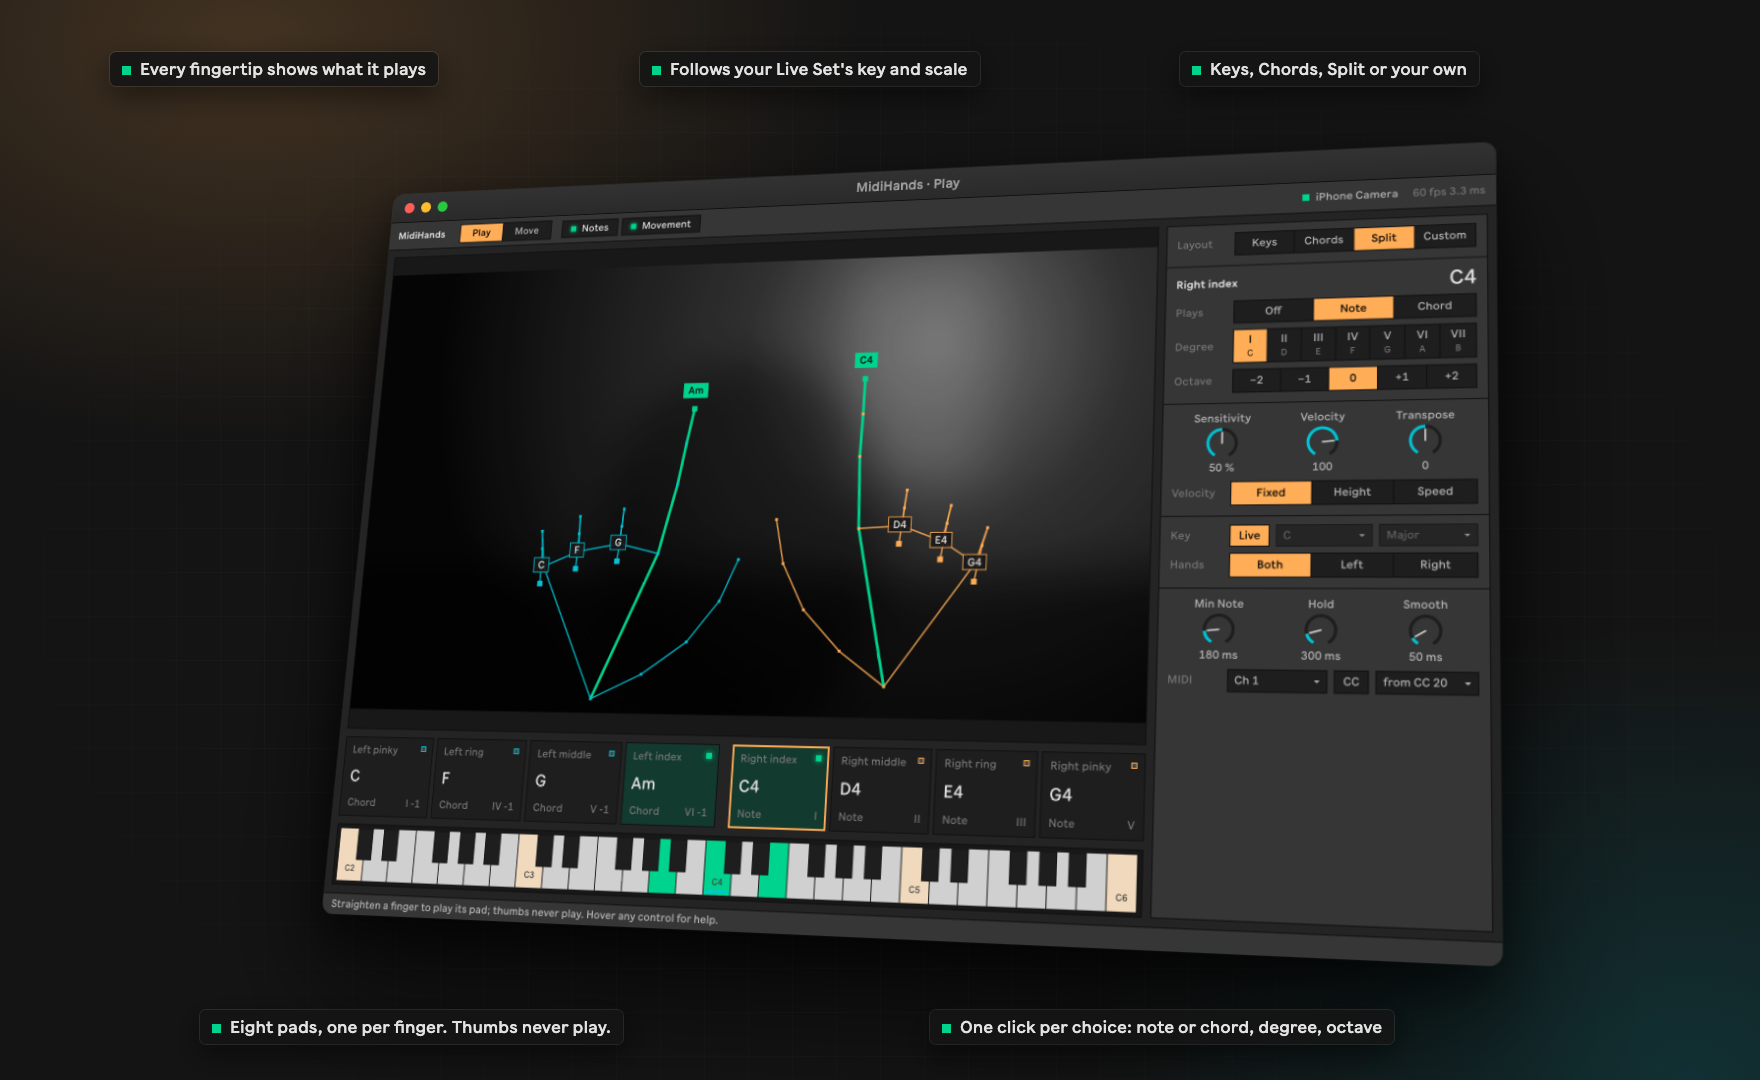
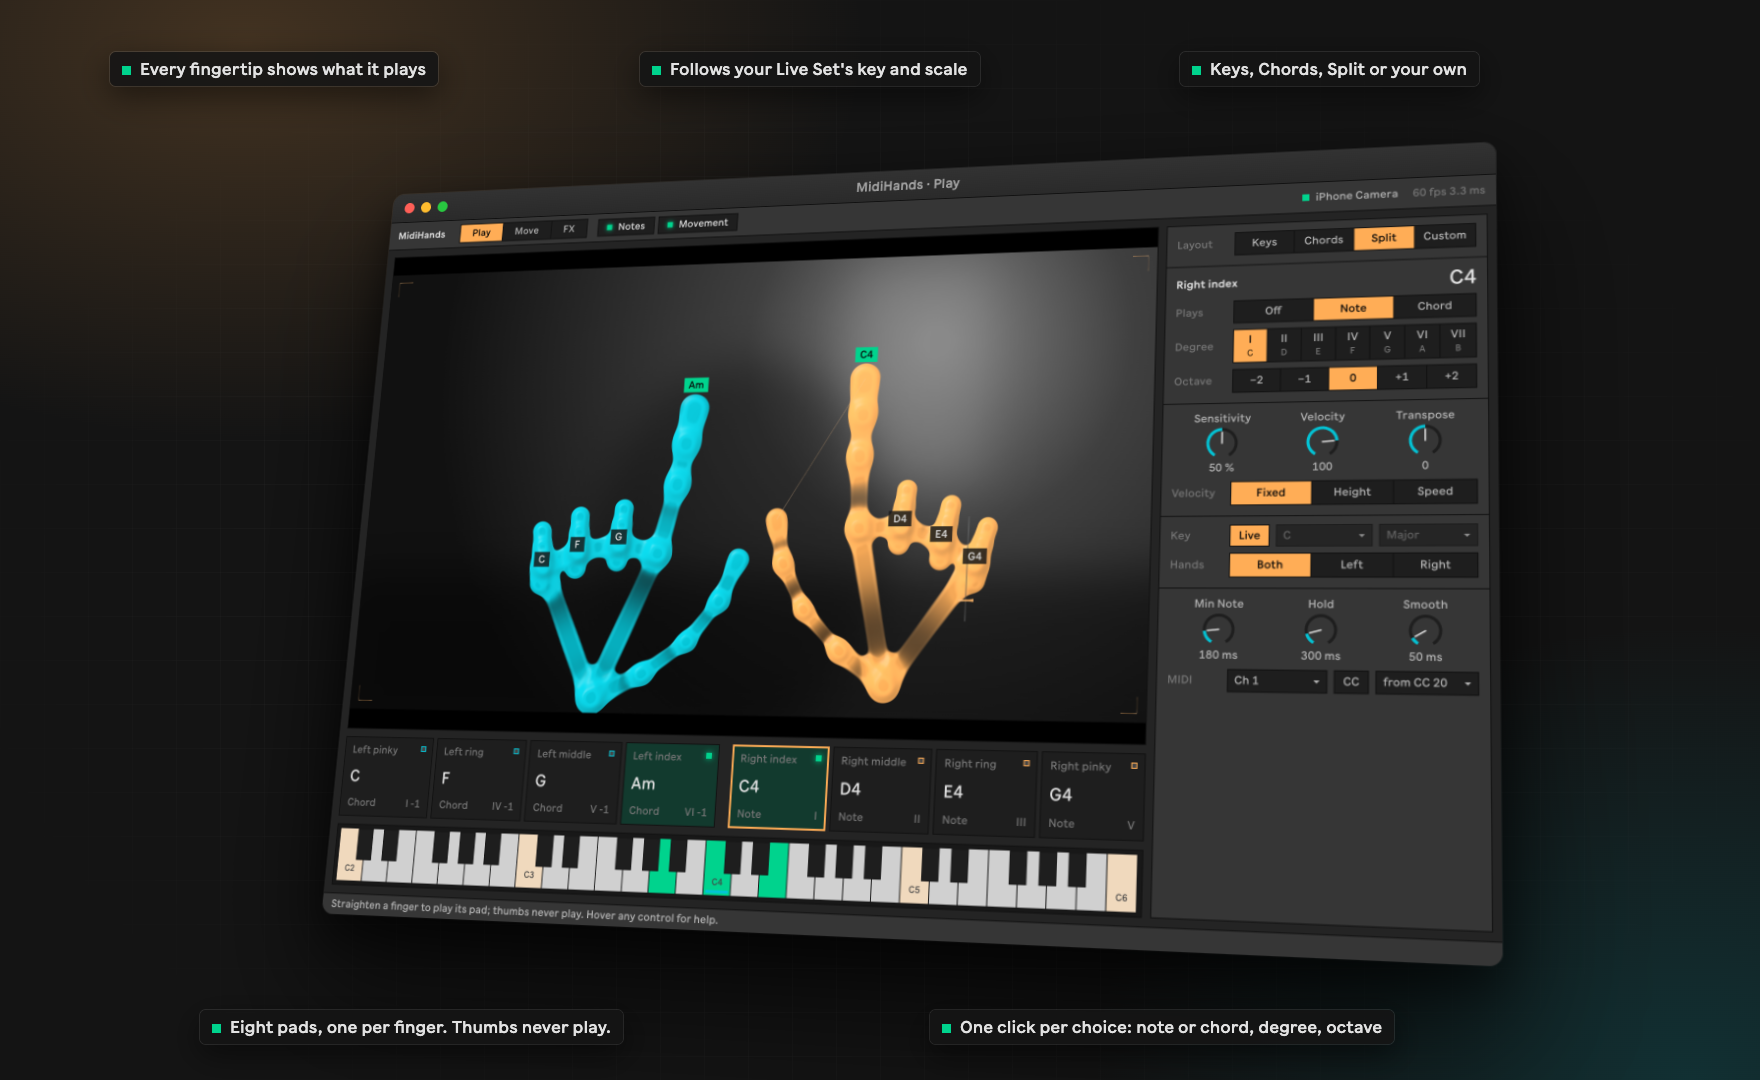
docs: FX and video window in README; recorder hardening
- README: FX page, video window and recording sections, intro and
  highlights, privacy (recordings stay in Movies/MidiHands), recording
  troubleshooting. New renderings effects.png and video.png come from
  the real renderer (synthetic picture, no camera).
- render.sh: copies mh-gl.js/mh-fx.js next to the temporary editor
  copy (the pictures fell back to 2D without them) and renders with
  the GPU on.
- Recorder: a device deleted while recording finishes the file; a
  second Rec while starting is refused.
- Video window: the toolbar stays out of recordings (shows only under
  the pointer while recording).
- CHANGELOG [Unreleased] and AGENTS.md (effects are stored by index:
  append only).

Claude-Session: https://claude.ai/code/session_01Lv8F25mHrKPNLjGZjr72Lo

Changed region(s): [[0.2812, 0.3056, 0.5625, 0.6722], [0.3125, 0.1833, 0.4062, 0.2139]]

diff --git a/docs/render/effects.html b/docs/render/effects.html
@@ -1,0 +1,69 @@
+<!doctype html><html><head><meta charset="utf-8"><link rel="stylesheet" href="common.css">
+<style>
+  .grid { position: absolute; left: 50%; top: 52%; width: 1560px; display: grid; grid-template-columns: repeat(4, 1fr); gap: 22px;
+    transform: translate(-50%, -50%) perspective(2600px) rotateX(18deg) rotateZ(-4deg); }
+  figure { margin: 0; border-radius: 10px; overflow: hidden; box-shadow: 0 30px 70px rgba(0,0,0,.6), 0 0 0 1px rgba(255,255,255,.08); background: #000; }
+  figure canvas { display: block; width: 100%; }
+  figcaption { padding: 9px 12px; background: #242424; font-size: 17px; color: #e2e2e2; }
+  figcaption span { color: #8a8a8a; margin-left: 8px; }
+  #gl { position: absolute; left: -10000px; width: 640px; height: 360px; }
+</style></head>
+<body>
+<div class="mark"><b>22 effects</b><span>moved by your <em>hands</em></span></div>
+<div class="grid" id="grid"></div>
+<canvas id="gl"></canvas>
+<script src="RAW_JS/mh-gl.js"></script>
+<script src="RAW_JS/mh-fx.js"></script>
+<script>
+// A few effects over a synthetic scene with jelly hands, rendered by the real renderer.
+const PICK = [["edges", {}], ["kaleido", { 0: 0.4, 3: 0.6, 4: 0 }], ["halftone", {}], ["thermal", {}], ["tunnel", {}], ["ascii", { 2: 1 }], ["glitch", { 0: 0.6 }], ["reaction", {}]];
+const OPEN = [[0, 0], [-.07, -.04], [-.13, -.09], [-.17, -.15], [-.19, -.21], [-.07, -.21], [-.085, -.31], [-.09, -.37], [-.095, -.42],
+  [-.01, -.22], [-.01, -.33], [-.01, -.40], [-.01, -.45], [.05, -.205], [.06, -.30], [.065, -.36], [.07, -.41], [.10, -.18], [.12, -.25], [.13, -.29], [.14, -.33]];
+function hand(wx, wy, size, mirror, open, tilt) {
+  const pts = OPEN.map((p) => p.slice());
+  for (let f = 1; f <= 4; f++) if (!open[f]) {
+    const [mx, my] = OPEN[4 * f + 1], dx = OPEN[4 * f + 2][0] - mx;
+    pts[4 * f + 2] = [mx + dx * .5, my - .05]; pts[4 * f + 3] = [mx + dx * .3, my - .025]; pts[4 * f + 4] = [mx + dx * .1, my + .025];
+  }
+  const c = Math.cos(tilt), s = Math.sin(tilt);
+  return pts.map(([x, y]) => [wx + (x * c - y * s) * size * mirror / (16 / 9), wy + (x * s + y * c) * size]);
+}
+function scene() {
+  const c = document.createElement("canvas"); c.width = 1280; c.height = 720;
+  const g = c.getContext("2d"), sky = g.createLinearGradient(0, 0, 0, 720);
+  sky.addColorStop(0, "#1d1b4f"); sky.addColorStop(.55, "#b8457a"); sky.addColorStop(1, "#f4a259");
+  g.fillStyle = sky; g.fillRect(0, 0, 1280, 720);
+  for (let i = 0; i < 40; i++) {
+    const x = (i * 337) % 1280, y = (i * 211) % 420, r = 10 + (i * 17) % 50, b = g.createRadialGradient(x, y, 0, x, y, r);
+    b.addColorStop(0, `hsla(${(i * 47) % 360},90%,75%,.55)`); b.addColorStop(1, "hsla(0,0%,100%,0)");
+    g.fillStyle = b; g.beginPath(); g.arc(x, y, r, 0, 7); g.fill();
+  }
+  g.fillStyle = "#14102a"; g.beginPath(); g.moveTo(0, 560);
+  for (let x = 0; x <= 1280; x += 40) g.lineTo(x, 520 - Math.sin(x * .01) * 40 - (x % 160 === 0 ? 70 : 0));
+  g.lineTo(1280, 720); g.lineTo(0, 720); g.fill();
+  const img = new Image(); img.src = c.toDataURL(); return img;
+}
+const img = scene();
+img.onload = () => {
+  const canvas = document.getElementById("gl"), r = MHGL.create(canvas);
+  r.setSource(img); r.options.brackets = false;
+  for (const [id, over] of PICK) {
+    const fx = MHFX.byId[id], p = fx.knobs.map((k) => k.def).concat([0, 0, 0, 0, 0, 0]).slice(0, 6);
+    for (const [k, v] of Object.entries(over)) p[+k] = v;
+    r.setFx([{ id, mix: 1, p }]);
+    const n = ["Feedback", "Simulation"].includes(fx.group) ? 90 : 3;
+    for (let i = 0; i < n; i++) {
+      const t = 2 + i / 15, lo = [false, true, true, false, false], ro = [false, true, Math.sin(t * 1.3) > 0, false, true];
+      r.setHands([{ pts: hand(.31 + Math.sin(t * .5) * .03, .97, 1.55, -1, lo, -.1), on: lo }, { pts: hand(.69, .95 + Math.cos(t * .7) * .03, 1.55, 1, ro, .08) , on: ro }]);
+      r.setExpr([.5, .3, .2, .1, .5, .5, .7, .5, .2, .55]);
+      r.render(t);
+    }
+    const fig = document.createElement("figure"), c = document.createElement("canvas");
+    c.width = 640; c.height = 360; c.getContext("2d").drawImage(canvas, 0, 0, 640, 360);
+    fig.appendChild(c);
+    fig.insertAdjacentHTML("beforeend", `<figcaption>${fx.name}<span>${fx.group}</span></figcaption>`);
+    document.getElementById("grid").appendChild(fig);
+  }
+};
+</script>
+</body></html>

diff --git a/package/javascript/mh-video.html b/package/javascript/mh-video.html
@@ -21,6 +21,9 @@ canvas { position: absolute; inset: 0; width: 100%; height: 100%; }
 #bar { position: absolute; top: 10px; right: 10px; display: flex; gap: 6px; align-items: center; padding: 6px; background: rgba(36, 36, 36, .92);
   border: 1px solid var(--frame); transition: opacity .25s; }
 body.idle #bar { opacity: 0; }
+/* While recording the bar stays out of the picture: it shows only while the pointer is near it. */
+body.recording #bar { opacity: 0; }
+body.recording #bar:hover { opacity: 1; }
 .seg { display: flex; border: 1px solid var(--frame); background: var(--control); }
 .seg button, .tog { border: 0; border-right: 1px solid var(--frame); background: transparent; color: var(--fg); padding: 4px 9px; font: inherit; }
 .seg button:last-child { border-right: 0; }
@@ -123,10 +126,9 @@ addEventListener("keydown", (e) => {
   if (e.key === "r" && !e.metaKey) toggleRecording();
   if (e.key === "f" && !e.metaKey) send("reveal");
 });
-// The bar hides itself while the mouse rests (and never shows in recordings: it sits outside
-// the picture only when there is room, so it fades out).
+// The bar hides itself while the mouse rests; while recording it shows only under the pointer.
 let idleTimer = 0;
-const wake = () => { document.body.classList.remove("idle"); clearTimeout(idleTimer); idleTimer = setTimeout(() => document.body.classList.add("idle"), 1800); };
+const wake = () => { document.body.classList.remove("idle"); clearTimeout(idleTimer); idleTimer = setTimeout(() => document.body.classList.add("idle"), S.recording ? 300 : 1800); };
 addEventListener("mousemove", wake); wake();
 addEventListener("resize", () => { if (S.url) onPicture(S.url); });
 
@@ -168,6 +170,10 @@ if (!MAX) {
   const at = (id) => MHFX.list.findIndex((f) => f.id === id) + 1;
   P.x0fx = at("kaleido"); MHFX.byId.kaleido.knobs.forEach((k, i) => { P[`x0p${i}`] = k.def; }); P.x0p4 = 1; P.x0m3s = 8; P.x0m3a = 0.6;
   P.x1fx = at("glow"); MHFX.byId.glow.knobs.forEach((k, i) => { P[`x1p${i}`] = k.def; });
+  // README renderings: #fmt=1 (9:16), #scene (colorful picture), #clean (no toolbar)
+  const fmt = /fmt=(\d)/.exec(location.hash); if (fmt) P.vfmt = +fmt[1];
+  if (location.hash.includes("scene")) { $("picture").src = MHGL.demoScene(); P.x0fx = at("edges"); MHFX.byId.edges.knobs.forEach((k, i) => { P[`x0p${i}`] = k.def; }); P.x0p4 = 0.5; }
+  if (location.hash.includes("clean")) $("bar").style.display = "none";
   render();
   let t = 0;
   setInterval(() => {

diff --git a/package/javascript/mh-gl.js b/package/javascript/mh-gl.js
@@ -648,5 +648,22 @@ void main() {
     return r;
   }
 
-  window.MHGL = { create, THEMES };
+  // A colorful synthetic picture for demos and README renderings (no camera).
+  function demoScene() {
+    const c = document.createElement("canvas"); c.width = 1280; c.height = 720;
+    const g = c.getContext("2d"), sky = g.createLinearGradient(0, 0, 0, 720);
+    sky.addColorStop(0, "#1d1b4f"); sky.addColorStop(0.55, "#b8457a"); sky.addColorStop(1, "#f4a259");
+    g.fillStyle = sky; g.fillRect(0, 0, 1280, 720);
+    for (let i = 0; i < 40; i++) {
+      const x = (i * 337) % 1280, y = (i * 211) % 420, r = 10 + (i * 17) % 50, b = g.createRadialGradient(x, y, 0, x, y, r);
+      b.addColorStop(0, `hsla(${(i * 47) % 360},90%,75%,.55)`); b.addColorStop(1, "hsla(0,0%,100%,0)");
+      g.fillStyle = b; g.beginPath(); g.arc(x, y, r, 0, 7); g.fill();
+    }
+    g.fillStyle = "#14102a"; g.beginPath(); g.moveTo(0, 560);
+    for (let x = 0; x <= 1280; x += 40) g.lineTo(x, 520 - Math.sin(x * 0.01) * 40 - (x % 160 === 0 ? 70 : 0));
+    g.lineTo(1280, 720); g.lineTo(0, 720); g.fill();
+    return c.toDataURL();
+  }
+
+  window.MHGL = { create, THEMES, demoScene };
 })();

diff --git a/docs/render/video.html b/docs/render/video.html
@@ -1,0 +1,14 @@
+<!doctype html><html><head><meta charset="utf-8"><link rel="stylesheet" href="common.css">
+<style>.toolbar { display: none; }</style></head>
+<body>
+<div class="mark"><b>Video window</b><span>Watch it, project it, <em>record it</em> with Live's sound.</span></div>
+<div class="scene">
+  <div class="win" style="width:470px; left:650px; top:150px; transform: rotateY(-14deg) rotateX(6deg) rotateZ(1deg);">
+    <div class="bar"><i></i><i></i><i></i><span>MidiHands Video</span></div><img src="RAW/video916.png">
+  </div>
+</div>
+<div class="tag" style="left:140px; top:420px;"><i></i>16:9 · 9:16 · 1:1 · 4:5 for any platform</div>
+<div class="tag" style="left:140px; top:490px;"><i></i>Fullscreen on any display or projector</div>
+<div class="tag" style="left:140px; top:560px;"><i></i>● Rec: MP4 with Live's sound, in Movies/MidiHands</div>
+<div class="tag" style="left:1220px; top:470px;"><i></i>Effects and hands at full resolution</div>
+</body></html>

diff --git a/max/mh.hands.mm b/max/mh.hands.mm
@@ -355,15 +355,19 @@ static void mh_post(t_mh_hands* x, const std::string& selector, const std::strin
 
 // record 1 <x> <y> <w> <h>: record that part of the video window with Live's
 // sound; record 0: stop and save. reveal: show the last recording in Finder.
+static t_mh_hands* gRecordingDevice = nullptr;  // main thread: the device whose window is recorded
+
 static void mh_record(t_mh_hands* x, t_symbol*, long argc, t_atom* argv) {
   const bool on = argc > 0 && atom_getlong(argv) != 0;
   if (on && argc >= 5) {
+    gRecordingDevice = x;
     mh::Recorder::shared().start("MidiHands Video", atom_getfloat(argv + 1), atom_getfloat(argv + 2),
                                  atom_getfloat(argv + 3), atom_getfloat(argv + 4), [x](bool ok, const std::string& msg) {
                                    if (ok) mh_post(x, "recording", "1");
                                    else mh_post(x, "recordfail", msg);
                                  });
   } else if (!on) {
+    if (gRecordingDevice == x) gRecordingDevice = nullptr;
     mh::Recorder::shared().stop([x](bool ok, const std::string& msg) {
       mh_post(x, "recording", "0");
       mh_post(x, ok ? "recorded" : "recordfail", msg);
@@ -593,6 +597,11 @@ static void mh_free(t_mh_hands* x) {
   {
     std::lock_guard<std::mutex> lock(gAliveMutex);
     gAlive.erase(x);
+  }
+  // Deleted while recording its video window: finish the file anyway.
+  if (gRecordingDevice == x) {
+    gRecordingDevice = nullptr;
+    mh::Recorder::shared().stop([](bool, const std::string&) {});
   }
   if (x->subscription) mh::CameraHub::shared().unsubscribe(x->subscription);  // no callbacks after this
   qelem_free(x->accessQelem);

diff --git a/mac/recorder.mm b/mac/recorder.mm
@@ -55,6 +55,7 @@ namespace mh {
 namespace {
 std::mutex gMutex;
 MHRecording* gActive = nil;
+std::atomic<bool> gStarting{false};  // between start() and the stream running
 std::string gLastFile;
 
 NSURL* newFileURL() {
@@ -83,7 +84,9 @@ std::string Recorder::lastFile() const {
 }
 
 void Recorder::start(const std::string& title, double x, double y, double w, double h, StartedFn started) {
-  if (recording()) { started(false, "already recording"); return; }
+  if (recording() || gStarting.exchange(true)) { started(false, "already recording"); return; }
+  // Every way out of starting clears gStarting before reporting.
+  started = [started](bool ok, const std::string& msg) { gStarting = false; started(ok, msg); };
   if (!CGPreflightScreenCaptureAccess()) {
     CGRequestScreenCaptureAccess();  // shows the system prompt once
     started(false, "allow Screen & System Audio Recording for Ableton Live in System Settings > Privacy & Security, then restart Live");

diff --git a/README.md b/README.md
@@ -7,19 +7,25 @@
 **Play Ableton Live with your hands.** MidiHands is a Max for Live device that turns your
 camera into an instrument. Straighten a finger to play a note or a chord in your song's key;
 raise, pinch or tilt your hand to sweep a filter, open a reverb or ride any knob in Live.
+The same movements play 22 video effects, so your set comes with its own visualizer, ready
+to record for Instagram, TikTok or YouTube.
 
 [![Latest release](https://img.shields.io/github/v/release/HarzerHeribert/midihands_m4l?label=release&color=ffad56)](https://github.com/HarzerHeribert/midihands_m4l/releases/latest)
 ![macOS 14+](https://img.shields.io/badge/macOS-14%2B-3a3a3a)
 ![Ableton Live 12 with Max for Live](https://img.shields.io/badge/Ableton%20Live-12%20%2B%20Max%20for%20Live-3a3a3a)
 
 [Install](#install) · [Quick start](#quick-start) · [Play](#play-notes-and-chords) ·
-[Move](#move-parameters-with-your-hands) · [Tips](#tips-for-good-tracking) ·
+[Move](#move-parameters-with-your-hands) · [FX](#fx-a-visualizer-you-play) ·
+[Video and recording](#video-window-and-recording) · [Tips](#tips-for-good-tracking) ·
 [Troubleshooting](#troubleshooting)
 
 - **Plays in key.** Eight fingers, eight pads: single notes, chords, or a split with chords
   in one hand and melody in the other. Follows the key and scale of your Live Set.
 - **Moves anything.** Link hand height, sideways position, pinch, fist or tilt to any
   parameter in Live. One movement can drive many parameters, each with its own range and curve.
+- **Plays video, too.** 22 effects, from neon edges to kaleidoscopes and reaction
+  diffusion, moved by the same hand movements. Full screen on a projector, or recorded with
+  Live's sound in the format your platform wants.
 - **Feels immediate.** Hand tracking runs inside Live on Apple's Vision framework, a few
   milliseconds per frame on Apple silicon. No extra app, no virtual MIDI ports.
 - **Live-native.** Every setting is a Live parameter: saved with your Set, automatable,
@@ -99,6 +105,45 @@ curve, **Inv** to reverse the direction, an output range, and **✕** to remove 
 movement can drive several parameters at once, up to 16 links per device. Links are saved
 with your Set.
 
+## FX: a visualizer you play
+
+<p align="center"><img src="docs/images/effects.png" alt="Eight of the video effects: neon edges, kaleidoscope, halftone, thermal, tunnel, ASCII, glitch and reaction diffusion, each over hands drawn as glossy jelly shapes" width="100%"></p>
+
+The **FX** page turns the camera picture and your hands into a music video.
+
+1. Pick an effect in one of the four slots. They run top to bottom, so a *Glow* after
+   *Neon Edges* makes the edges shine. The effects come in six groups: Color, Stylize,
+   Distort, Feedback (echoes, trails, time warp), Glitch and Simulation.
+2. Under any knob, and under **Mix**, choose a hand movement, then drag the small bar
+   next to it: to the right the movement turns the knob up, to the left down. An orange dot
+   on the knob shows where your hand has moved it. Pinch to zoom a kaleidoscope, make a
+   fist to flash a strobe, raise your hand to bend a tunnel.
+3. Choose how hands are drawn: **Jelly** (the glossy look of the original midihands app),
+   **Lines** or **Off**, in Live's cyan and orange or in **Amber**. **Cues** draw what each
+   movement is doing right on your hands: the pinch distance, the height, the fist.
+
+Effects marked *Follow Hands* move their center to your hands. **Camera** sets how much of
+the camera picture shows: at 0 only the hands and effects remain, on black. Every FX
+control is a Live parameter too, so you can automate it or map it to a controller.
+
+## Video window and recording
+
+<p align="center"><img src="docs/images/video.png" alt="The MidiHands Video window in portrait format, hands drawn as jelly over a colorful picture" width="100%"></p>
+
+Click **Video window** on the FX page for the picture in its own window, at full
+resolution. Resize it freely; the picture keeps its format: **16:9** for YouTube and
+screens, **9:16** for Reels, Stories and TikTok, **1:1** or **4:5** for feed posts.
+**Fullscreen** fills the display the window is on, for a projector or a second screen; Esc
+leaves it.
+
+Click **● Rec**, in the window or on the FX page, to record the picture with Live's sound.
+The video is saved as an MP4 (H.264 and AAC) in *Movies/MidiHands*, ready to upload. In
+the video window, R starts and stops a recording and F shows the last one in Finder.
+
+The first time you record, macOS asks whether Ableton Live may record the screen and system
+audio. Allow it in System Settings > Privacy & Security > Screen & System Audio Recording,
+then restart Live.
+
 ## Tips for good tracking
 
 - **Light matters most.** Many webcams halve their frame rate in dim rooms (30 → 15 fps),
@@ -141,6 +186,10 @@ them without the download flag.
 MidiHands on the same track, and that the editor's fingertip labels light up when you
 straighten a finger. Hands should face the camera.
 
+**Recording failed.** Allow Ableton Live in System Settings > Privacy & Security > Screen &
+System Audio Recording and restart Live. The video window must be open and on screen
+while it records; it may be behind other windows, but not minimized.
+
 **Files disappear after a while.** If your Documents folder is in iCloud Drive with "Optimize
 Mac Storage", macOS may remove local copies of `Documents/Max 9/Packages`. Keep that folder
 downloaded, or run the install command again.
@@ -156,8 +205,9 @@ changes. Read it first if you like: [scripts/install.sh](scripts/install.sh).
 ## Privacy
 
 Hand tracking runs entirely on your Mac. The camera picture is only shown in the device's
-own editor, over the computer's internal network interface (127.0.0.1). The only internet
-access is the update check and download from GitHub.
+own windows, over the computer's internal network interface (127.0.0.1). Recordings are
+saved only to *Movies/MidiHands* on your Mac. The only internet access is the update check
+and download from GitHub.
 
 ## Uninstall
 

diff --git a/AGENTS.md b/AGENTS.md
@@ -30,6 +30,15 @@ Read README.md first.
   HTML). Adding a setting means: a row in `stored_params()`, a key in the page's `P`, and,
   if the engine needs it, an entry in `ENGINE_MESSAGES` plus handling in `mh.hands`.
 - Open the page in a browser to work on the UI: without Max it runs a demo.
+- Pictures are drawn by `mh-gl.js` (WebGL2: camera, hands, cues, effect chain); effects live
+  in `mh-fx.js` (six 0..1 knobs each; the menu order is the `FX<n> Effect` enum, read by the
+  generator). Sets store an effect by its index, so add new effects only at the end of
+  `list`, and never remove or reorder one; the page groups them for the menu.
+  `docs/render/gallery.html` renders every effect and reports shader errors.
+  The video window is `mh-video.html` in its own subpatcher; it gets the same `param`
+  messages as the editor (`---mh_param`) and sends commands back through `---mh_vcmd`.
+- `mac/recorder` records the video window (ScreenCaptureKit, AVAssetWriter) into
+  ~/Movies/MidiHands; Live needs the Screen & System Audio Recording permission.
 - Links (MOVE) are a fixed pool of `LINKS` in the generator. A link's target id lives in a
   `live.object` saved with `_persistence 1` (as in Ableton's own mapping snippets);
   `live.remote~` only gets it while the link and Movement are on. `mh-links.js` follows Live's

diff --git a/CHANGELOG.md b/CHANGELOG.md
@@ -5,6 +5,21 @@ the format follows [Keep a Changelog](https://keepachangelog.com).
 
 ## [Unreleased]
 
+### Added
+- FX page: four effect slots with 22 video effects (Film Grade, Gradient Map, Thermal, Neon
+  Edges, Glow, Halftone, ASCII, Mosaic, Kaleidoscope, Ripple, Liquid, RGB Split, Mirror,
+  Tunnel, Echo, RGB Trails, Time Warp, VHS, Glitch, CRT, Strobe, Reaction Diffusion). Every
+  knob and the mix can follow a hand movement, with an amount in either direction.
+- Hands drawn with WebGL: the original app's glossy *Jelly* look, *Lines* or off, in Live
+  colors or *Amber*; optional cues that show what each movement is doing.
+- Video window: the picture at full resolution in 16:9, 9:16, 1:1 or 4:5, resizable, and
+  fullscreen on any display.
+- Recording: the video window with Live's sound as an MP4 in Movies/MidiHands.
+
+### Changed
+- The camera picture is in color and as sharp as the window showing it (up to 1920 wide);
+  the Play page draws it with WebGL.
+
 ### Fixed
 - `install.sh` run from an unzipped release folder reported failure (exit code 1) although
   the install succeeded.
